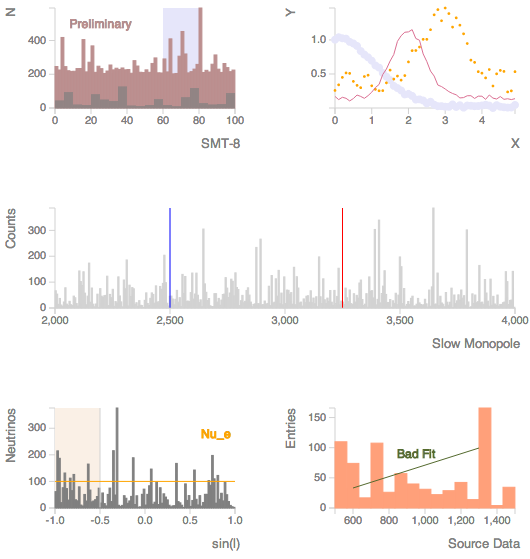
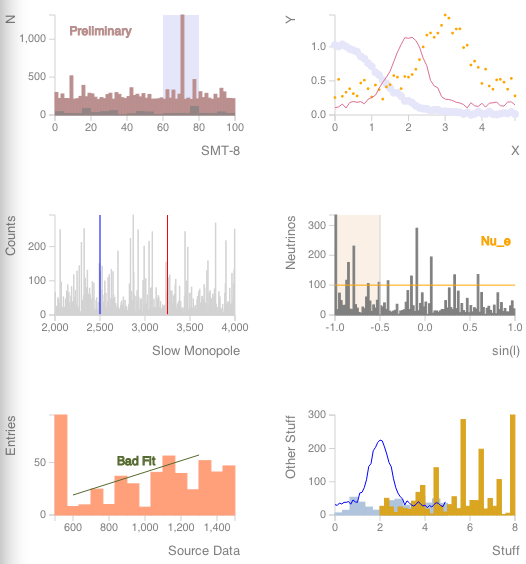
Allow superposition of histograms and curves

diff --git a/i3d3.js b/i3d3.js
@@ -73,7 +73,6 @@ function bars(opt) {
     regions = select(opt.extras, "region");
     notes = select(opt.extras, "note");
     lines = select(opt.extras, "line");
-
     // Content of plots, in order of z-height. See
     // http://stackoverflow.com/questions/13595175/updating-svg-element-z-index-with-d3
 
@@ -154,13 +153,33 @@ function bars(opt) {
 }
 
 
-function points(opt) {
+function concat_contents(l) {
+    return [].concat.apply([], l);
+}
+
+function combine_values(data) {
+    return concat_contents(data.map(function (e) { return e.values; }));
+}
+
+function plot(opt) {
     // Initial setup
-    var xAxis, yAxis, i, xx, yy, line, linesets, pointsets,
+    var xAxis, yAxis, i, xx, yy, line, binscale, xmin, xmax,
+        pointsets = opt.data.filter(function (e) { return e.type === "points"; }),
+        linesets = opt.data.filter(function (e) { return e.type === "lines"; }),
+        barsets = opt.data.filter(function(e) { return e.type === "bars"; }),
         padding = 50,
-        allpoints = [].concat.apply([], opt.data.map(function (e) { return e.values; })),
-        xextent = d3.extent(allpoints, function (d) { return d.x; }),
-        yextent = d3.extent(allpoints, function (d) { return d.y; }),
+        allpoints = combine_values(pointsets.concat(linesets)),//FIXME: handle bins for histos
+        minhistx = Math.min.apply([], barsets.map(function (e) { return e.range[0]; })),
+        maxhistx = Math.max.apply([], barsets.map(function (e) { return e.range[1]; })),
+        maxhisty = Math.max.apply([], barsets.map(function (e) { return d3.max(e.bins); })),
+        minpointsx = Math.min.apply([], allpoints.map(function (d) { return d.x; })),
+        maxpointsx = Math.max.apply([], allpoints.map(function (d) { return d.x; })),
+        minpointsy = Math.min.apply([], allpoints.map(function (d) { return d.y; })),
+        maxpointsy = Math.max.apply([], allpoints.map(function (d) { return d.y; })),
+        xextent = [Math.min(minpointsx, minhistx),
+                   Math.max(maxpointsx, maxhistx)],
+        yextent = [Math.min(0, minpointsy), 
+                   Math.max(maxhisty, maxpointsy)],
 
         w = opt.size[0],
         h = opt.size[1],
@@ -207,8 +226,29 @@ function points(opt) {
         .attr('transform',
               function (d, i, j) { return 'rotate(-90 ' + xx + ', ' + yy + ')'; });
 
-    // Actual data points
-    pointsets = opt.data.filter(function (e) { return e.type === "points"; });
+
+    // Draw bars
+    for(i=0; i < barsets.length; i++) {
+        binscale = d3.scale.linear()
+          .domain(xextent)
+          .range([padding, w - padding]);
+        xmin = barsets[i].range[0],
+        xmax = barsets[i].range[1],
+        svg.append("g").attr("bars_" + i);
+        svg.selectAll("bars_" + i + " rect")
+            .data(barsets[i].bins)
+            .enter()
+            .append("rect")
+            .attr("x", function (d, j) { return xscale(xmin + (xmax-xmin) * j / barsets[i].bins.length);})
+            .attr("y", function (d) { return yscale(d); })
+            .attr("fill", ifor(barsets[i].color, "grey"))
+            .attr("stroke", ifor(barsets[i].color, "grey"))
+            .attr("width", (xscale(xmax) - xscale(xmin)) / barsets[i].bins.length - 0.1)
+            .attr("height", function (d) { return h - (padding + yscale(d)); })
+            .attr("opacity", ifor(barsets[i].opacity, 1));
+    }
+
+    // Draw point sets
     for(i=0; i < pointsets.length; i++) {
         svg.append("g").attr("points_" + i);
         svg.selectAll("points_" + i + " circle")
@@ -221,6 +261,7 @@ function points(opt) {
             .attr("fill", ifor(pointsets[i].color, "grey"));
     }
 
+    // Draw line sets
     line = d3.svg.line()
         .x(function (d) { return xscale(d.x); })
         .y(function (d) { return yscale(d.y); });

diff --git a/example.html b/example.html
@@ -11,6 +11,7 @@
 <div class="plot" id="plot3"></div>
 <div class="plot" id="plot4"></div>
 <div class="plot" id="plot5"></div>
+<div class="plot" id="plot6"></div>
 
 <script src="i3d3.js" type="text/javascript"></script>
 
@@ -46,7 +47,7 @@ bars({data: [{type: "bars",
               bins: testdata(330),
               color: "lightgrey"}],
       div: "plot3",
-      size: [w * 2, h],
+      size: [w, h],
       xlabel: "Slow Monopole",
       ylabel: "Counts",
       range: [2000, 4000],
@@ -85,19 +86,19 @@ bars({data: [{type: "bars",
 
 });
 
-function sample_curve(phase, noise_weight, offset, sig2) {
+function sample_curve(ampl, phase, noise_weight, offset, sig2) {
     return d3.range(50).map(function(i) {
         var x = 0.1 * i;
-        return {x: x, y: Math.exp(-(Math.pow(x - phase, 2)/sig2)) + 
-                         Math.random()/noise_weight + offset};
+        return {x: x, y: ampl * (Math.exp(-(Math.pow(x - phase, 2)/sig2)) + 
+                                 Math.random()/noise_weight + offset)};
     });
 }
 
-var points1 = sample_curve(0.1, 20, 0, 2);
-var points2 = sample_curve(3, 3, 0.2, 0.7);
-var points3 = sample_curve(2, 10, 0.1, 0.4);
-
-points({data: [{type: "points", values: points1, color: "#e6e6fa", size: 4},
+var points1 = sample_curve(1, 0.1, 20, 0, 2);
+var points2 = sample_curve(1, 3, 3, 0.2, 0.7);
+var points3 = sample_curve(1, 2, 10, 0.1, 0.4);
+ 
+plot({data: [{type: "points", values: points1, color: "#e6e6fa", size: 4},
                {type: "points", values: points2, color: "orange", size: 1.4},
                {type: "lines", values: points3, color: "palevioletred", width: 1}],
         div: "plot2",
@@ -106,6 +107,23 @@ points({data: [{type: "points", values: points1, color: "#e6e6fa", size: 4},
         ylabel: "Y",
         radius: 1.4
 });
+
+plot({data: [{type: "lines",
+                values: sample_curve(200, 2, 10, 0.1, 0.4),
+                color: "blue"},
+               {type: "bars",
+                bins: testdata(15),
+                color: "lightsteelblue",
+                range: [0, 5]},
+               {type: "bars",
+                bins: testdata(30),
+                color: "goldenrod",
+                range: [2, 8]},
+               ],
+        div: "plot6",
+        size: [w, h],
+        xlabel: "Stuff",
+        ylabel: "Other Stuff"});
 
 </script>
 </body>

diff --git a/README.md b/README.md
@@ -15,7 +15,7 @@ We looked around at
 [quite](https://code.google.com/p/flot/)
 [a](http://www.jqplot.com/tests/) 
 [few](http://www.highcharts.com/)
-JavaScript plotting libraries which might meet our requirements, which are:
+JavaScript plotting libraries which might meet our requirements, which are (watch this space for updated status as the project progresses):
 
 #### DONE
 
@@ -26,16 +26,18 @@ JavaScript plotting libraries which might meet our requirements, which are:
     - Multiple histograms per plot
     - Show X and Y axis labels
     - Single or multiple plots per page, of various sizes
-    - Add rectangular highlights to X-ranges underneath histograms
-    - Draw horizontal, vertical and other lines on top of plot
-    - Add text to plot in either data or display units
 - Scatter / line plots
     - Multiple data sets per page in different colors/widths
+    - Histograms and scatter / line plots on same diagram
 
 #### Not done
 
-- Histograms and scatter / line plots on same diagram
+- Still need to be added to combined plots:
+    - Add rectangular highlights to X-ranges underneath histograms
+    - Draw horizontal, vertical and other lines on top of plot
+    - Add text to plot in either data or display units
 - Show (x,y) plot coordinates of mouse
+- Wrap everything in an object to avoid namespace pollution
 - Log / linear axes
 - Error bars
 - Time series X-axes
